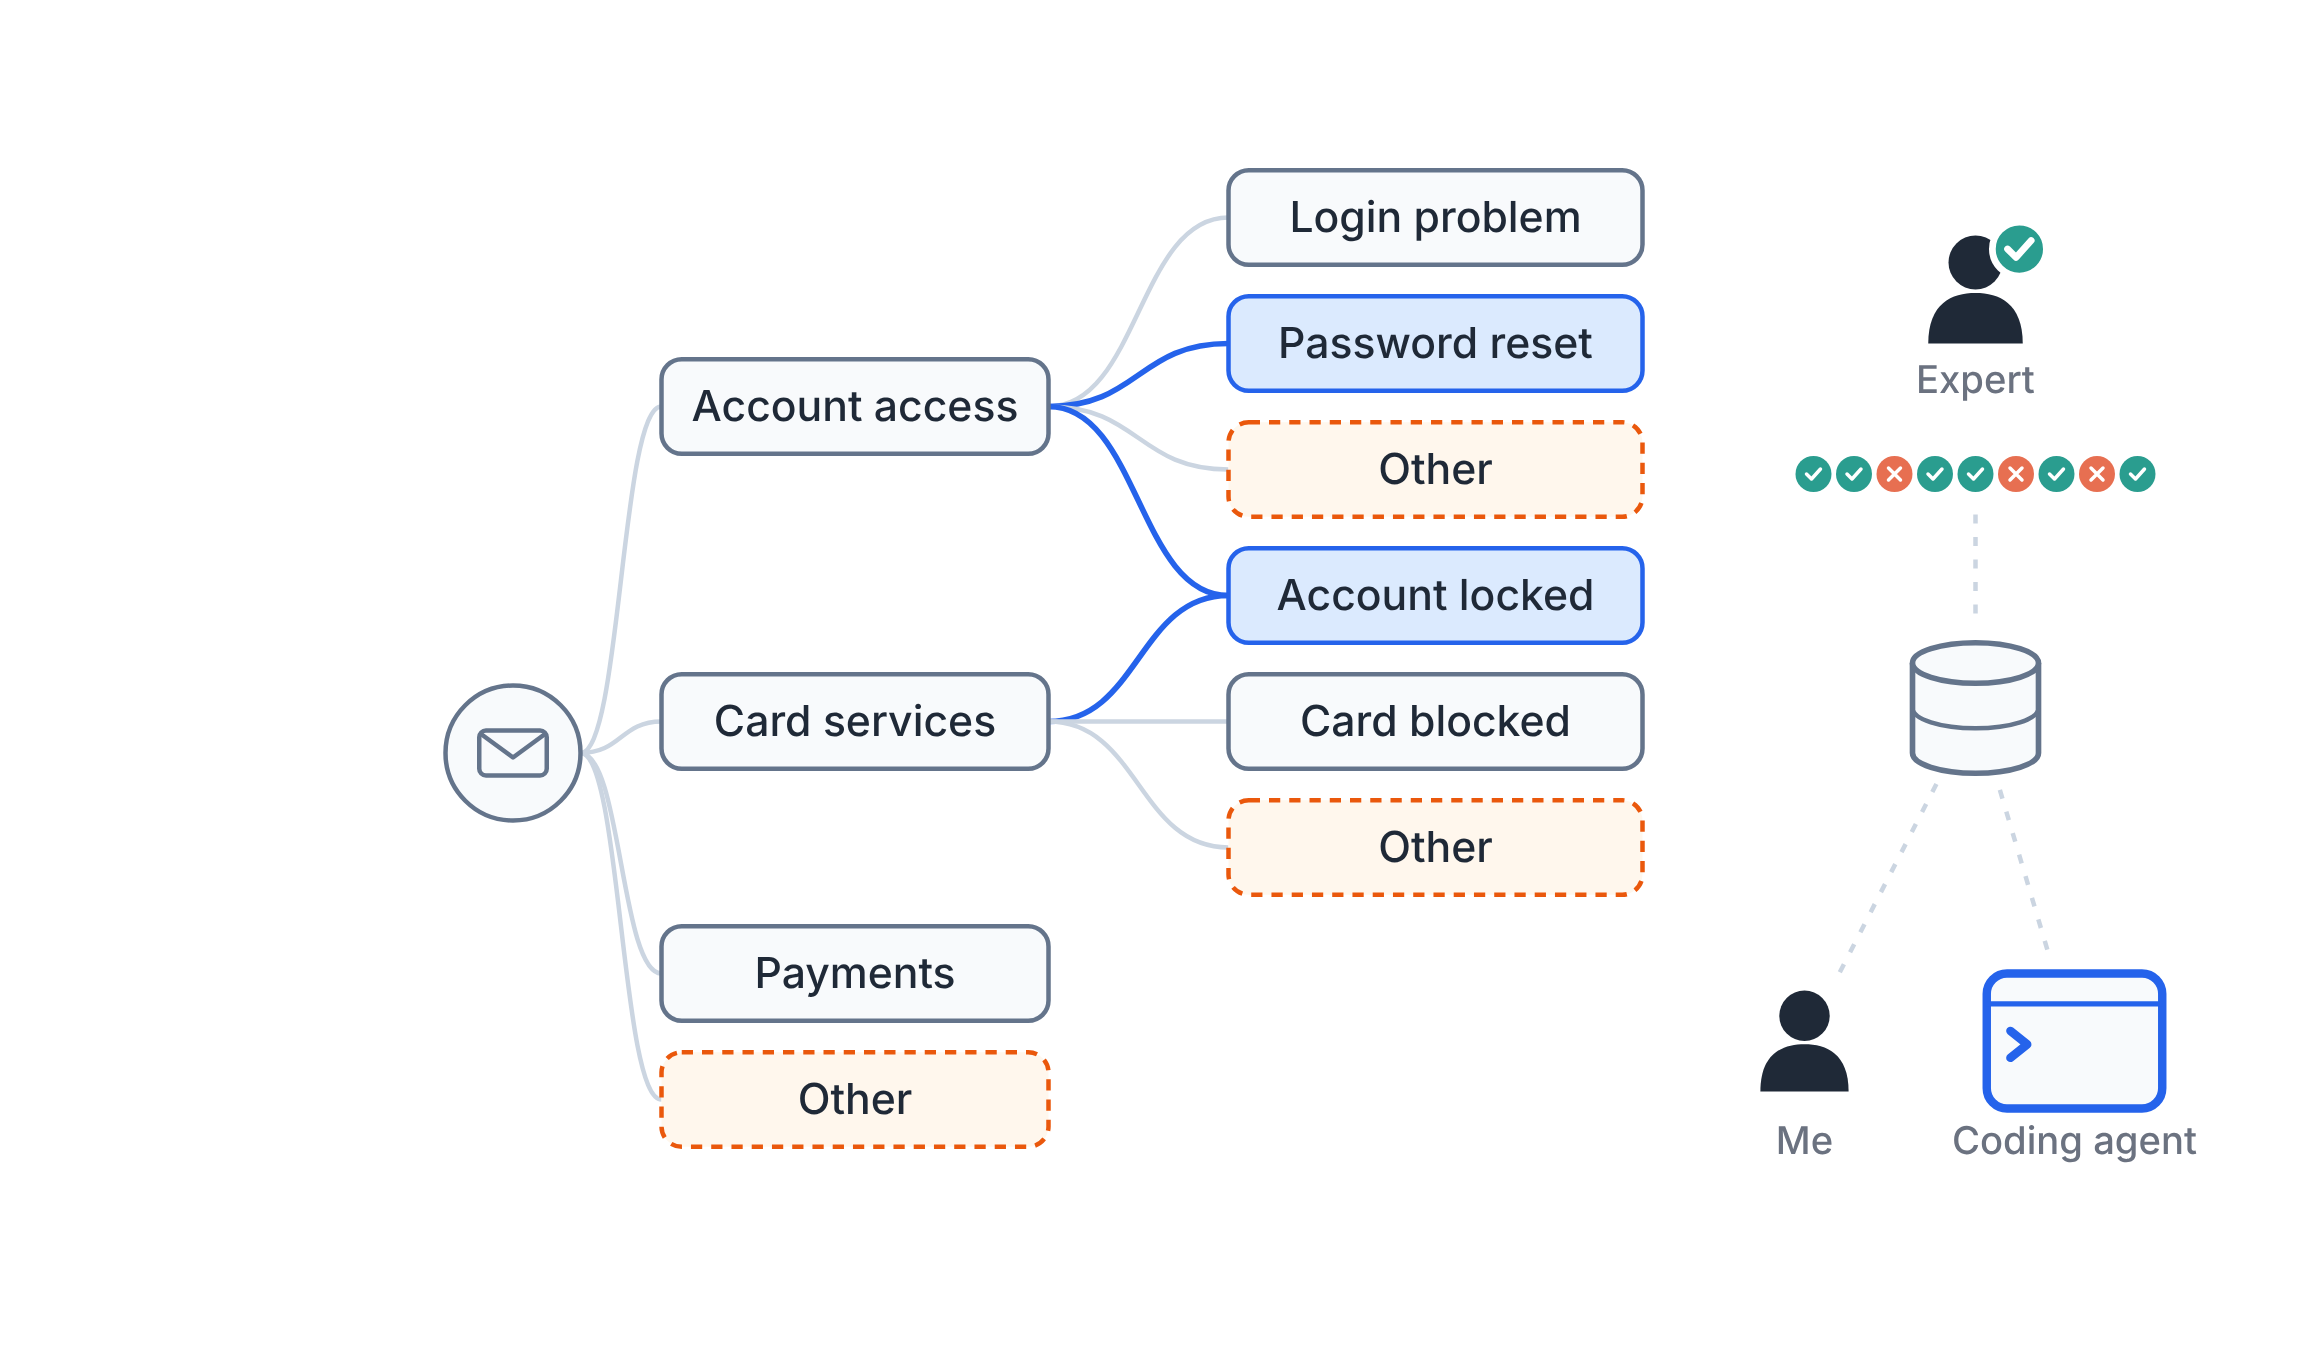
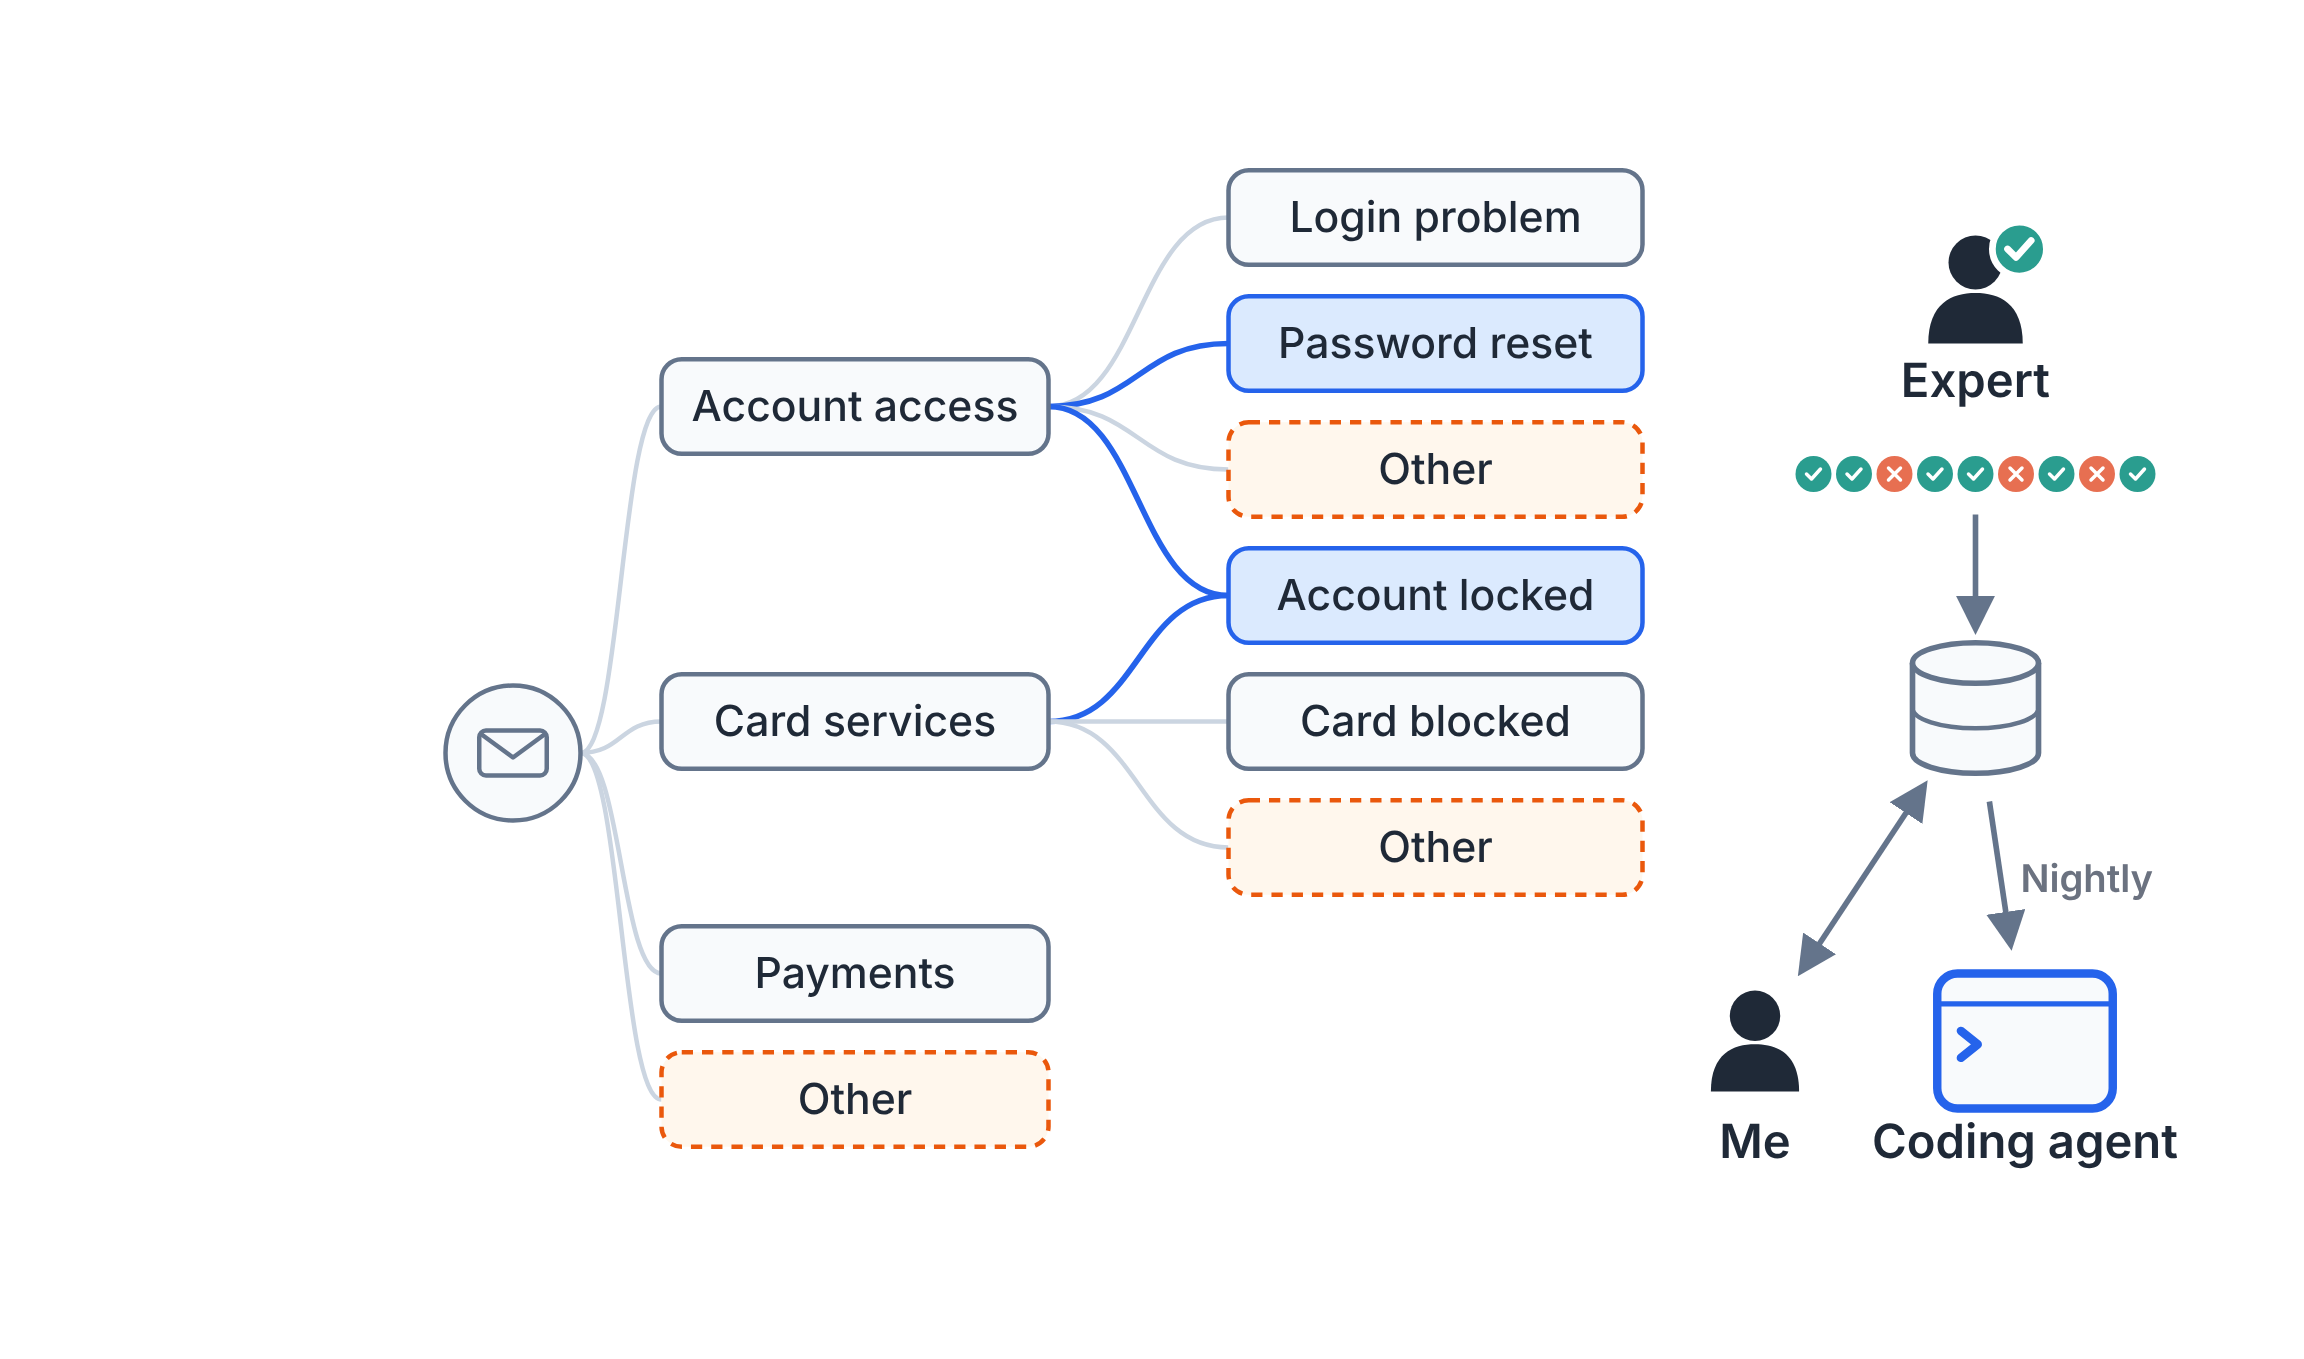
Join the shadow loop's store to the others as the maps do
The animation named and connected the same parts as the section maps,
but differently: its "Expert", "Me" and "Coding agent" were small grey
labels where the maps write them bold in the text color, and the store's
links to the expert, me and the coding agent were light dashed lines,
where the maps draw solid arrows (two-way between the store and me),
label the one to the coding agent "Nightly", and keep dashes for the
old-ticket replay.

Label now writes names as the maps do, at the map's size for each
layout, and the store's links are the maps' arrows, with "Nightly".
Me and the coding agent move a little left on the wide layout to make
room for the bigger label. Regenerated shadow-loop.png.

Claude-Session: https://claude.ai/code/session_017bnjgFAgkudbVx5M1gpvkA

diff --git a/src/remotion/ShadowLoop.tsx b/src/remotion/ShadowLoop.tsx
@@ -38,6 +38,7 @@ import {
   Label,
   type Point,
 } from './shared';
+import { ArrowMarker } from '../components/map-parts';
 
 type Kind = 'intent' | 'other';
 
@@ -152,6 +153,10 @@ interface Layout {
   store: Point;
   me: Point;
   agent: Point;
+  /** The size of the names under the icons, as on the map of the same width. */
+  labelSize: number;
+  /** Where "Nightly" goes, next to the line from the store to the coding agent. */
+  nightly: Point & { anchor: 'start' | 'middle' };
 }
 
 export const LAYOUTS = {
@@ -164,8 +169,10 @@ export const LAYOUTS = {
     expert: { x: 846, y: 96 },
     tallyY: 178,
     store: { x: 846, y: 282 },
-    me: { x: 770, y: 430 },
-    agent: { x: 890, y: 430 },
+    me: { x: 748, y: 430 },
+    agent: { x: 868, y: 430 },
+    labelSize: 21,
+    nightly: { x: 866, y: 364, anchor: 'start' },
   },
   tall: {
     width: 540,
@@ -179,6 +186,8 @@ export const LAYOUTS = {
     // Raised, so the line from the store to the coding agent passes below me.
     me: { x: 290, y: 724 },
     agent: { x: 440, y: 820 },
+    labelSize: 25,
+    nightly: { x: 270, y: 854, anchor: 'middle' },
   },
 } satisfies Record<string, Layout>;
 
@@ -250,11 +259,12 @@ const lit = (frame: number, visit: Timed, from: number) => {
 export const ShadowLoop = ({ layout = 'wide' }: { layout?: LayoutName }) => {
   const L: Layout = LAYOUTS[layout];
   const { expert: EXPERT, agent: AGENT, store: STORE, me: ME } = L;
-  // The dashed lines from the store to me and to the coding agent, from the edge of one icon to the other's.
-  const storeToMe = toward(STORE, ME, 38);
-  const meIn = toward(ME, STORE, 34);
-  const storeToAgent = toward(STORE, AGENT, 38);
-  const agentIn = toward(AGENT, STORE, 40);
+  // The lines from the store to me and to the coding agent, from the edge of one icon to the other's.
+  const storeToMe = toward(STORE, ME, 42);
+  const meIn = toward(ME, STORE, 38);
+  const storeToAgent = toward(STORE, AGENT, 42);
+  const agentIn = toward(AGENT, STORE, 44);
+  const marker = `shadow-loop-${layout}-arrow`;
   /** A point of the DAG in this layout's coordinates. */
   const D = (p: Point): Point => ({ x: p.x + L.dag.x, y: p.y + L.dag.y });
   const frame = useCurrentFrame();
@@ -388,21 +398,37 @@ export const ShadowLoop = ({ layout = 'wide' }: { layout?: LayoutName }) => {
         })}
         </g>
 
-        {/* The expert, their grades, the store, me and the coding agent */}
-        <path
-          d={`M${EXPERT.x},${L.tallyY + 18} V${STORE.y - 40} M${storeToMe.x},${storeToMe.y} L${meIn.x},${meIn.y} M${storeToAgent.x},${storeToAgent.y} L${agentIn.x},${agentIn.y}`}
-          fill="none"
-          stroke={color('edge')}
-          strokeWidth={2}
-          strokeDasharray="4 6"
-        />
+        {/* The expert, their grades, the store, me and the coding agent, joined as on the section maps:
+            the grade and comment go into the store, comments go back and forth between it and me, and
+            the nightly run takes mine to the coding agent. */}
+        <defs>
+          <ArrowMarker id={marker} />
+        </defs>
+        {[
+          { d: `M${EXPERT.x},${L.tallyY + 18} V${STORE.y - 36}` },
+          { d: `M${storeToMe.x},${storeToMe.y} L${meIn.x},${meIn.y}`, twoWay: true },
+          { d: `M${storeToAgent.x},${storeToAgent.y} L${agentIn.x},${agentIn.y}` },
+        ].map(({ d, twoWay }) => (
+          <path
+            key={d}
+            d={d}
+            fill="none"
+            stroke={color('node-border')}
+            strokeWidth={2.5}
+            markerEnd={`url(#${marker})`}
+            markerStart={twoWay ? `url(#${marker})` : undefined}
+          />
+        ))}
+        <text x={L.nightly.x} y={L.nightly.y} textAnchor={L.nightly.anchor} fontSize={L.labelSize - 4} fontWeight={600} fill={color('muted')}>
+          Nightly
+        </text>
         <Store x={STORE.x} y={STORE.y} />
         <Person x={ME.x} y={ME.y} scale={1.4} fill={color('text')} />
-        <Label x={ME.x} y={ME.y + 50}>
+        <Label x={ME.x} y={ME.y + 52} size={L.labelSize}>
           Me
         </Label>
         <Expert x={EXPERT.x} y={EXPERT.y} scale={1.5 * (grading ? 1 + 0.06 * pop(grading.replyAt + TO_EXPERT - 6) : 1)} />
-        <Label x={EXPERT.x} y={EXPERT.y + 46}>
+        <Label x={EXPERT.x} y={EXPERT.y + 48} size={L.labelSize}>
           Expert
         </Label>
         {TIMELINE.filter((v) => frame >= v.gradeAt).map((v, i) => {
@@ -411,7 +437,7 @@ export const ShadowLoop = ({ layout = 'wide' }: { layout?: LayoutName }) => {
         })}
 
         <Agent x={AGENT.x} y={AGENT.y} scale={1.5} typing={fixing ? progress(frame, fixing.typingAt!, fixing.sparkAt! - 4) : 0} />
-        <Label x={AGENT.x} y={AGENT.y + 50}>
+        <Label x={AGENT.x} y={AGENT.y + 52} size={L.labelSize}>
           Coding agent
         </Label>
 

diff --git a/src/remotion/shared.tsx b/src/remotion/shared.tsx
@@ -207,14 +207,15 @@ export const Grade = ({ ok, r = 18, ...place }: IconProps & { ok: boolean; r?: n
   </Place>
 );
 
+/** A node's name, as the section maps (SystemMap.tsx) write it. */
 export const Label = ({
   x,
   y,
   children,
-  size = 17,
+  size = 21,
   anchor = 'middle',
 }: Point & { children: ReactNode; size?: number; anchor?: 'middle' | 'start' | 'end' }) => (
-  <text x={x} y={y} textAnchor={anchor} fontSize={size} fill={color('muted')} fontWeight={500}>
+  <text x={x} y={y} textAnchor={anchor} fontSize={size} fontWeight={600} fill={color('text')}>
     {children}
   </text>
 );
